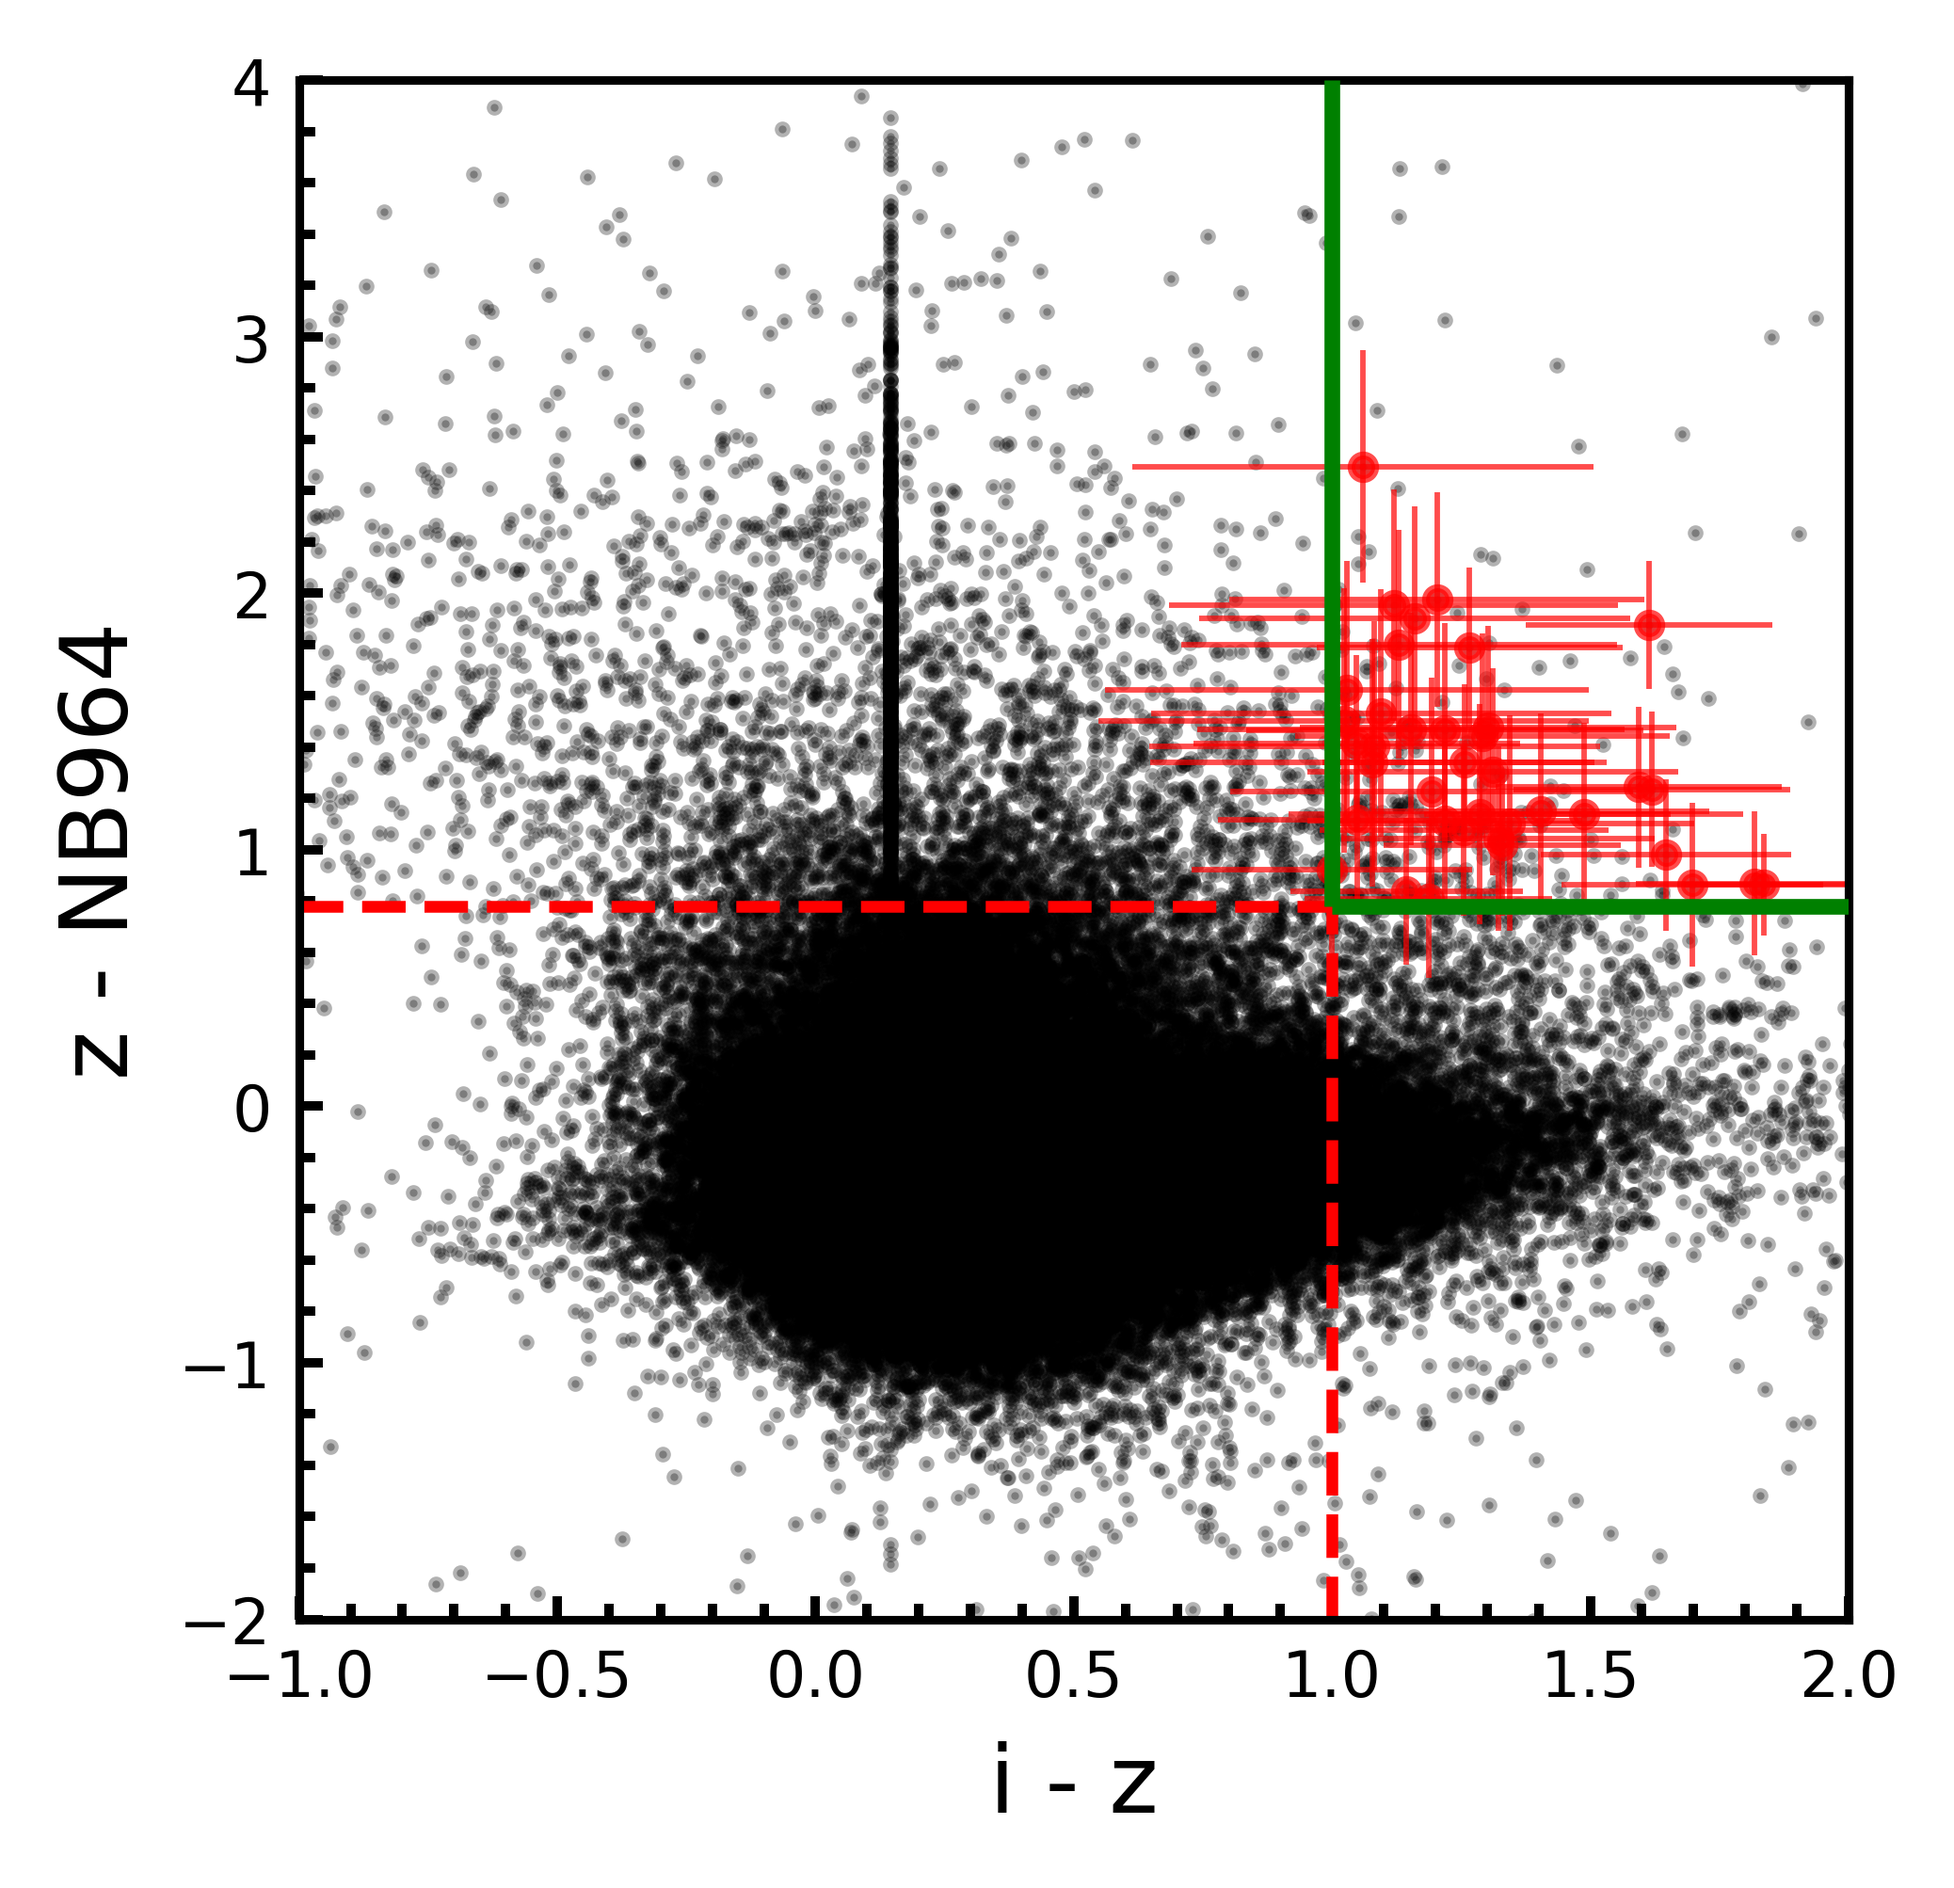
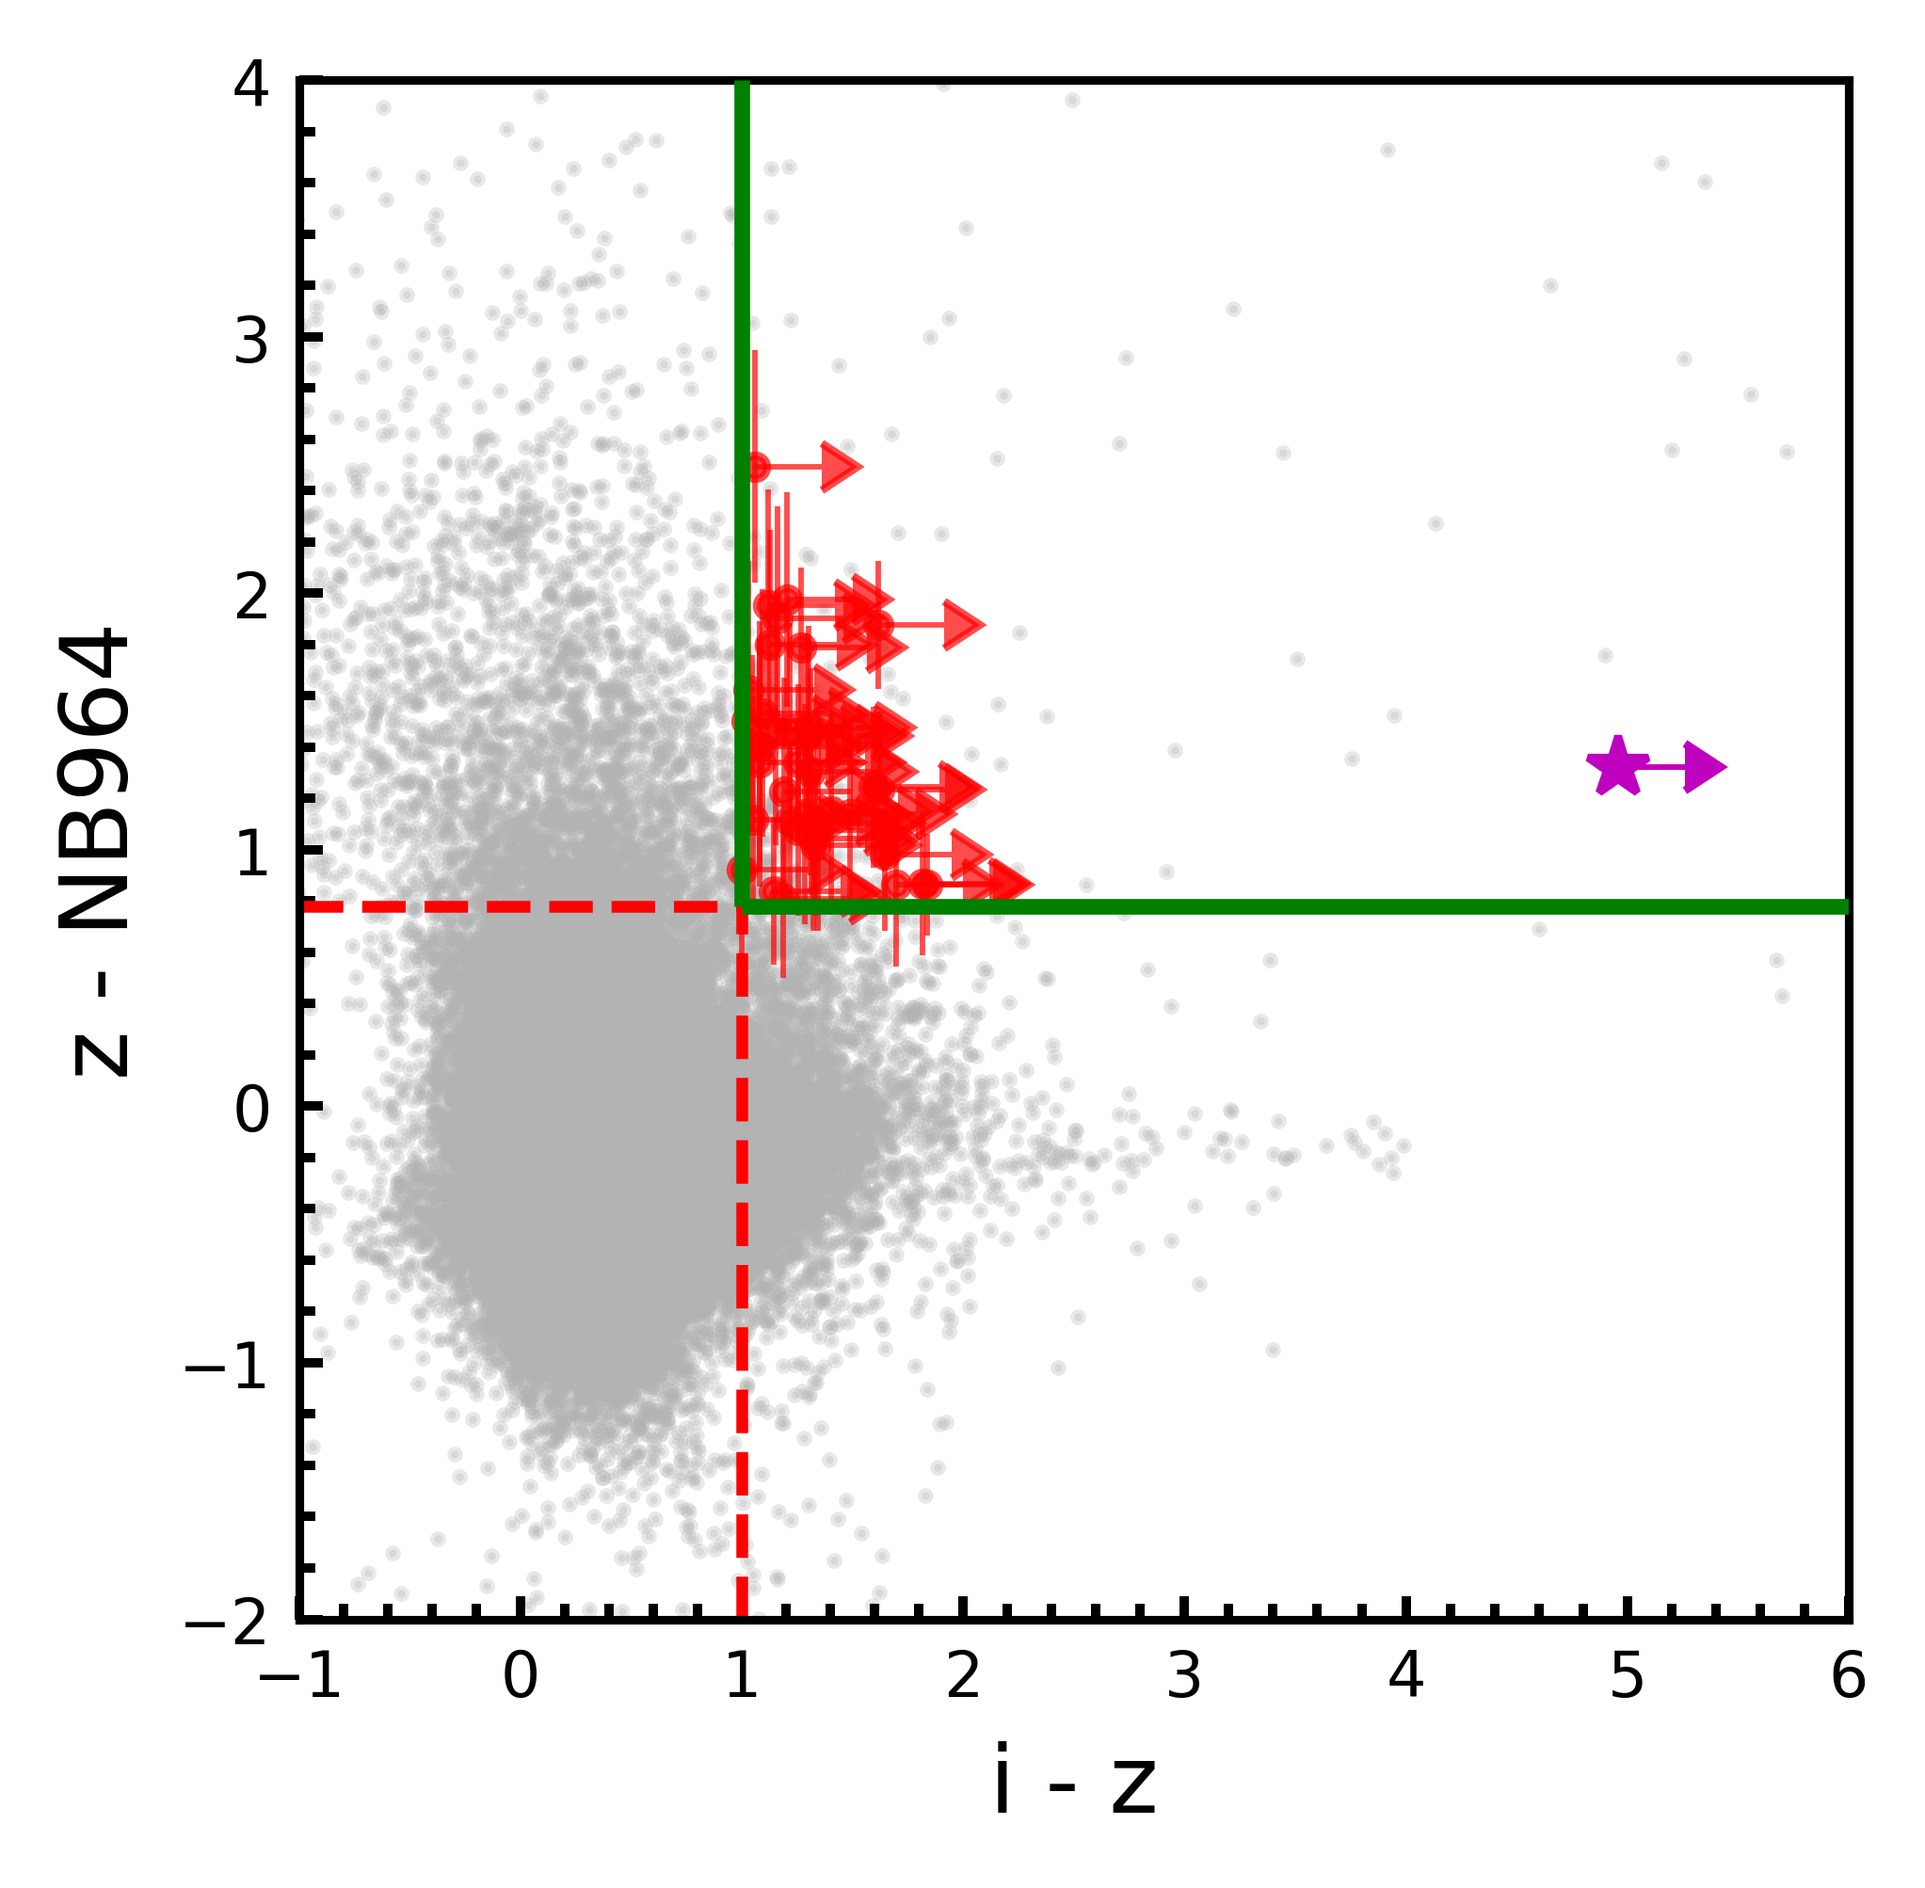
testing git

diff --git a/plot_color_color_model.py b/plot_color_color_model.py
@@ -49,7 +49,7 @@ if __name__ == '__main__':
         for redshift in track(redshift_range):
             offset_redshift = redshift - offset_velocity/3e5
             spectrum  = LaeSpectrum(offset_redshift).spectrum
-            spectrum = SourceSpectrum.from_file('M82_template_norm.sed', keep_neg=True, wave_unit='Angstrom', flux_unit='FLAM')
+            #spectrum = SourceSpectrum.from_file('M82_template_norm.sed', keep_neg=True, wave_unit='Angstrom', flux_unit='FLAM')
             i_z = calculate_color(i_band, z_band, spectrum)
             z_nb = calculate_color(z_band, n_band, spectrum)
             izs.append(i_z.value)
